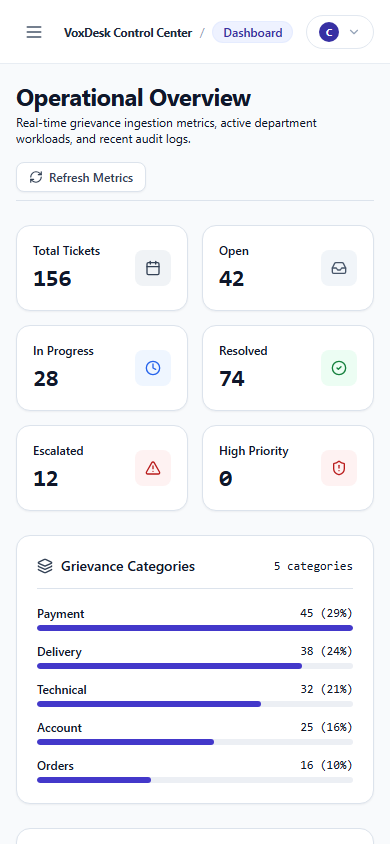
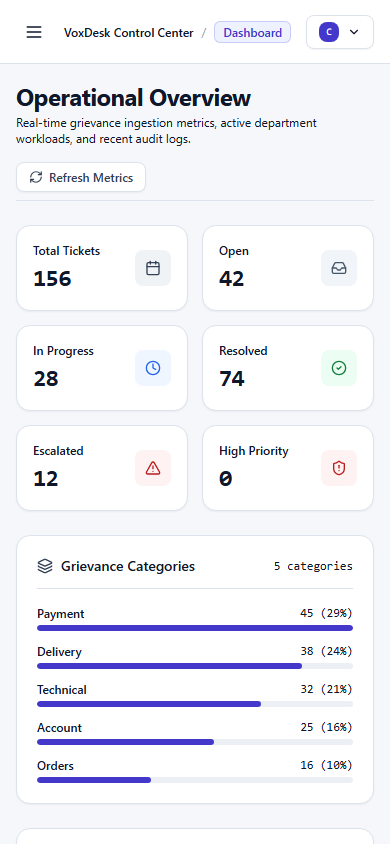
feat(unslop): complete Part 5 (Admin Console Navigation & Shell) with quiet chrome

diff --git a/frontend/src/components/admin/AdminSidebar.jsx b/frontend/src/components/admin/AdminSidebar.jsx
@@ -9,10 +9,8 @@ import {
   ChevronLeft,
   ChevronRight,
   X,
-  Shield,
 } from 'lucide-react';
 import { Link } from 'react-router-dom';
-import VoxDeskLogo from '../VoxDeskLogo';
 
 export default function AdminSidebar({
   activeTab = 'Dashboard',
@@ -43,11 +41,11 @@ export default function AdminSidebar({
       <div className="h-16 px-4 flex items-center justify-between border-b border-[#1F2937] shrink-0 bg-[#111827]">
         <Link
           to="/"
-          className="flex items-center gap-2.5 transition hover:opacity-90 focus-visible:ring-2 focus-visible:ring-brand rounded-lg min-w-0"
-          title="Return to Public Site"
+          className="flex items-center gap-2.5 transition-opacity hover:opacity-90 focus-visible:ring-2 focus-visible:ring-brand rounded-lg min-w-0"
+          title="Return to public site"
         >
           {isCollapsed && !isMobile ? (
-            <div className="w-8 h-8 rounded-lg bg-brand text-white flex items-center justify-center p-1.5 font-bold text-xs shrink-0 shadow-xs">
+            <div className="w-8 h-8 rounded-lg bg-brand text-white flex items-center justify-center font-mono font-medium text-xs shrink-0 shadow-xs">
               VD
             </div>
           ) : (
@@ -70,8 +68,8 @@ export default function AdminSidebar({
                   <line x1="20" y1="10" x2="20" y2="14" />
                 </svg>
               </div>
-              <span className="font-bold tracking-tight text-white leading-none text-base">
-                VoxDesk <span className="text-[#8B6CF0] font-semibold">AI</span>
+              <span className="font-medium tracking-tight text-white leading-none text-base">
+                VoxDesk <span className="text-indigo-400 font-mono text-xs">Console</span>
               </span>
             </div>
           )}
@@ -82,7 +80,7 @@ export default function AdminSidebar({
           <button
             type="button"
             onClick={onCloseMobile}
-            className="p-1.5 text-slate-400 hover:text-white rounded-lg hover:bg-slate-800 transition"
+            className="p-1.5 text-slate-400 hover:text-white rounded-lg hover:bg-slate-800 transition-colors"
             aria-label="Close sidebar drawer"
           >
             <X className="w-5 h-5" />
@@ -94,7 +92,7 @@ export default function AdminSidebar({
           <button
             type="button"
             onClick={onToggleCollapse}
-            className="p-1.5 text-slate-400 hover:text-white rounded-lg hover:bg-slate-800 transition hidden lg:flex"
+            className="p-1.5 text-slate-400 hover:text-white rounded-lg hover:bg-slate-800 transition-colors hidden lg:flex"
             title={isCollapsed ? 'Expand sidebar' : 'Collapse sidebar'}
             aria-label={isCollapsed ? 'Expand sidebar' : 'Collapse sidebar'}
           >
@@ -104,10 +102,10 @@ export default function AdminSidebar({
       </div>
 
       {/* ─────────────────────────────────────────────────────────────────── */}
-      {/* Middle Navigation Items */}
+      {/* Middle Navigation Items (Dense 34px rows on 4px grid) */}
       {/* ─────────────────────────────────────────────────────────────────── */}
       <div className="flex-1 py-4 px-3 space-y-1 overflow-y-auto">
-        <div className="px-2 pb-2 text-[10px] font-bold uppercase tracking-wider text-slate-500">
+        <div className="px-2 pb-2 text-[11px] font-mono text-slate-500">
           {!isCollapsed || isMobile ? 'Operations' : '•••'}
         </div>
 
@@ -124,18 +122,18 @@ export default function AdminSidebar({
                 if (onTabChange) onTabChange(item.id);
                 if (isMobile && onCloseMobile) onCloseMobile();
               }}
-              className={`w-full flex items-center gap-3 px-3 py-2.5 rounded-btn text-xs font-medium transition cursor-pointer relative ${
+              className={`w-full flex items-center gap-3 px-3 py-2 rounded-btn text-xs font-medium transition-colors cursor-pointer relative ${
                 isActive
-                  ? 'bg-[#26344B] text-white font-semibold'
+                  ? 'bg-[#26344B] text-white'
                   : 'text-[#C7D2E0] hover:bg-[#182338] hover:text-white'
               } ${isCollapsed && !isMobile ? 'justify-center px-0' : ''}`}
               title={item.name}
             >
-              {/* Refined violet left active indicator */}
+              {/* Quiet indigo active indicator hairline */}
               {isActive && (
-                <span className="absolute left-0 top-1.5 bottom-1.5 w-1 bg-[#8B6CF0] rounded-r-full" />
+                <span className="absolute left-0 top-1.5 bottom-1.5 w-1 bg-indigo-400 rounded-r-full" />
               )}
-              <Icon className={`w-4 h-4 shrink-0 ${isActive ? 'text-[#8B6CF0]' : 'text-slate-400'}`} />
+              <Icon className={`w-4 h-4 shrink-0 ${isActive ? 'text-indigo-400' : 'text-slate-400'}`} />
               {(!isCollapsed || isMobile) && <span>{item.name}</span>}
             </button>
           );
@@ -146,16 +144,16 @@ export default function AdminSidebar({
       {/* Bottom User Profile & Sign Out Bar */}
       {/* ─────────────────────────────────────────────────────────────────── */}
       <div className="p-3 border-t border-[#1F2937] bg-[#111827] space-y-2 shrink-0">
-        <div className={`flex items-center gap-2.5 p-2 rounded-btn bg-[#182338] ${isCollapsed && !isMobile ? 'justify-center p-1.5' : ''}`}>
-          <div className="w-7 h-7 rounded-full bg-brand text-white flex items-center justify-center font-bold text-xs shrink-0">
+        <div className={`flex items-center gap-2.5 p-2 rounded-btn bg-[#182338] border border-[#2E3C54]/40 ${isCollapsed && !isMobile ? 'justify-center p-1.5' : ''}`}>
+          <div className="w-7 h-7 rounded-btn bg-brand text-white flex items-center justify-center font-mono font-medium text-xs shrink-0">
             {currentUser?.name?.charAt(0) || 'A'}
           </div>
           {(!isCollapsed || isMobile) && (
             <div className="flex-1 min-w-0 text-left">
-              <span className="text-xs font-semibold text-white block truncate leading-tight">
+              <span className="text-xs font-medium text-white block truncate leading-tight">
                 {currentUser?.name || 'Administrator'}
               </span>
-              <span className="text-[10px] text-slate-400 block truncate leading-tight">
+              <span className="text-[10px] font-mono text-slate-400 block truncate leading-tight">
                 {currentUser?.email || 'admin@voxdesk.ai'}
               </span>
             </div>
@@ -165,13 +163,13 @@ export default function AdminSidebar({
         <button
           type="button"
           onClick={onLogout}
-          className={`w-full flex items-center gap-2.5 px-3 py-2 rounded-btn text-xs font-medium text-rose-400 hover:bg-rose-500/10 hover:text-rose-300 transition cursor-pointer ${
+          className={`w-full flex items-center gap-2.5 px-3 py-2 rounded-btn text-xs font-medium text-rose-400 hover:bg-rose-500/10 hover:text-rose-300 transition-colors cursor-pointer ${
             isCollapsed && !isMobile ? 'justify-center px-0' : ''
           }`}
-          title="Sign out of Admin Console"
+          title="Sign out of admin console"
         >
           <LogOut className="w-4 h-4 shrink-0" />
-          {(!isCollapsed || isMobile) && <span>Sign Out</span>}
+          {(!isCollapsed || isMobile) && <span>Sign out</span>}
         </button>
       </div>
     </aside>

diff --git a/frontend/src/components/admin/AdminTopbar.jsx b/frontend/src/components/admin/AdminTopbar.jsx
@@ -37,47 +37,47 @@ export default function AdminTopbar({
   }, [profileDropdownOpen]);
 
   return (
-    <header className="h-16 bg-white border-b border-slate-200/80 px-4 sm:px-8 flex items-center justify-between sticky top-0 z-20 shrink-0 select-none">
+    <header className="h-16 bg-surface border-b border-border px-4 sm:px-8 flex items-center justify-between sticky top-0 z-20 shrink-0 select-none">
       {/* Left Area: Mobile Menu Trigger & Breadcrumbs */}
       <div className="flex items-center gap-3">
         <button
           type="button"
           onClick={onOpenMobileSidebar}
-          className="md:hidden p-2 text-slate-600 hover:text-slate-900 rounded-lg hover:bg-slate-100 transition cursor-pointer"
+          className="md:hidden p-2 text-secondary-text hover:text-primary-text rounded-btn hover:bg-surface-subtle transition-colors cursor-pointer"
           aria-label="Open sidebar navigation"
         >
           <Menu className="w-5 h-5" />
         </button>
 
         <div className="flex items-center gap-2 text-xs">
-          <span className="font-bold text-slate-800 tracking-tight">
+          <span className="font-medium text-primary-text">
             VoxDesk Control Center
           </span>
           <span className="text-slate-400" aria-hidden="true">/</span>
-          <span className="font-semibold text-primary-700 bg-primary-50 px-2.5 py-0.5 rounded-full border border-primary-100/60">
+          <span className="font-medium text-brand bg-brand-subtle px-2 py-0.5 rounded-tag border border-brand/20">
             {activeTab}
           </span>
         </div>
       </div>
 
-      {/* Right Area: Admin Profile Dropdown Pill */}
+      {/* Right Area: Admin Profile Button */}
       <div className="relative" ref={dropdownRef}>
         <button
           type="button"
           onClick={() => setProfileDropdownOpen((prev) => !prev)}
           aria-expanded={profileDropdownOpen}
           aria-haspopup="menu"
-          className="flex items-center gap-2 px-3 py-1.5 rounded-full border border-slate-200 bg-white text-xs font-semibold text-slate-700 shadow-2xs hover:bg-slate-50 hover:border-slate-300 transition cursor-pointer"
+          className="flex items-center gap-2 px-3 py-1.5 rounded-btn border border-border bg-surface text-xs font-medium text-secondary-text shadow-xs hover:bg-surface-subtle hover:text-primary-text transition-colors cursor-pointer"
         >
-          <div className="w-5 h-5 rounded-full bg-primary-700 text-white flex items-center justify-center text-[10px] font-bold">
+          <div className="w-5 h-5 rounded-btn bg-brand text-white flex items-center justify-center text-[10px] font-mono font-medium">
             {currentUser?.name ? currentUser.name.charAt(0).toUpperCase() : 'A'}
           </div>
           <span className="hidden sm:inline truncate max-w-[140px]">
             {currentUser?.name || currentUser?.email || 'Admin'}
           </span>
           <ChevronDown
-            className={`w-3.5 h-3.5 text-slate-400 transition-transform duration-200 ${
-              profileDropdownOpen ? 'rotate-180 text-primary-600' : ''
+            className={`w-3.5 h-3.5 text-secondary-text transition-transform duration-150 ${
+              profileDropdownOpen ? 'rotate-180 text-brand' : ''
             }`}
           />
         </button>
@@ -86,16 +86,16 @@ export default function AdminTopbar({
         {profileDropdownOpen && (
           <div
             role="menu"
-            className="absolute right-0 mt-2 w-52 bg-white border border-slate-200 rounded-2xl shadow-lg p-2 z-30 space-y-1 animate-in fade-in zoom-in-95 duration-100"
+            className="absolute right-0 mt-2 w-52 bg-surface border border-border rounded-card shadow-md p-1.5 z-30 space-y-1"
           >
-            <div className="px-3 py-2 border-b border-slate-100 text-xs">
-              <div className="font-bold text-slate-800 truncate">
+            <div className="px-3 py-2 border-b border-border text-xs">
+              <div className="font-medium text-primary-text truncate">
                 {currentUser?.name || 'Administrator'}
               </div>
-              <div className="text-[10px] text-slate-400 truncate">
+              <div className="text-[10px] font-mono text-muted-text truncate">
                 {currentUser?.email || 'admin@voxdesk.ai'}
               </div>
-              <div className="text-[9px] font-bold uppercase tracking-wider text-primary-600 mt-1">
+              <div className="text-[10px] font-mono text-brand mt-1">
                 Role: {currentUser?.role || 'Admin'}
               </div>
             </div>
@@ -104,10 +104,10 @@ export default function AdminTopbar({
               to="/"
               role="menuitem"
               onClick={() => setProfileDropdownOpen(false)}
-              className="w-full flex items-center gap-2 px-3 py-2 text-xs text-slate-600 hover:text-slate-900 hover:bg-slate-50 rounded-xl transition"
+              className="w-full flex items-center gap-2 px-3 py-2 text-xs text-secondary-text hover:text-primary-text hover:bg-surface-subtle rounded-btn transition-colors"
             >
               <ArrowLeft className="w-3.5 h-3.5" />
-              <span>Exit to Public Home</span>
+              <span>Exit to public home</span>
             </Link>
 
             <button
@@ -117,10 +117,10 @@ export default function AdminTopbar({
                 setProfileDropdownOpen(false);
                 if (onLogout) onLogout();
               }}
-              className="w-full flex items-center gap-2 px-3 py-2 text-xs text-rose-600 hover:bg-rose-50 rounded-xl font-semibold transition cursor-pointer"
+              className="w-full flex items-center gap-2 px-3 py-2 text-xs text-rose-600 hover:bg-rose-50 rounded-btn font-medium transition-colors cursor-pointer"
             >
               <LogOut className="w-3.5 h-3.5" />
-              <span>Sign Out</span>
+              <span>Sign out</span>
             </button>
           </div>
         )}
@@ -128,4 +128,3 @@ export default function AdminTopbar({
     </header>
   );
 }
-

diff --git a/frontend/src/components/admin/AdminLayout.jsx b/frontend/src/components/admin/AdminLayout.jsx
@@ -52,7 +52,7 @@ export default function AdminLayout({
   }, [mobileOpen]);
 
   return (
-    <div className="fixed inset-0 flex bg-slate-50 font-sans overflow-hidden select-none">
+    <div className="fixed inset-0 flex bg-app font-sans overflow-hidden select-none">
       {/* ─────────────────────────────────────────────────────────────────── */}
       {/* 1. Permanent Desktop Sidebar (Full Viewport Height 100dvh) */}
       {/* ─────────────────────────────────────────────────────────────────── */}
@@ -109,7 +109,7 @@ export default function AdminLayout({
       {/* ─────────────────────────────────────────────────────────────────── */}
       {/* 3. Right Area: Sticky Topbar + Independently Scrollable Main Content */}
       {/* ─────────────────────────────────────────────────────────────────── */}
-      <div className="flex-1 flex flex-col h-full min-w-0 overflow-hidden bg-slate-50">
+      <div className="flex-1 flex flex-col h-full min-w-0 overflow-hidden bg-app">
         <AdminTopbar
           activeTab={activeTab}
           currentUser={currentUser}
@@ -124,4 +124,3 @@ export default function AdminLayout({
     </div>
   );
 }
-

diff --git a/frontend/src/components/admin/AdminMainContent.jsx b/frontend/src/components/admin/AdminMainContent.jsx
@@ -3,7 +3,7 @@ import React from 'react';
 export default function AdminMainContent({ children }) {
   return (
     <main
-      className="flex-1 overflow-y-auto overflow-x-hidden min-w-0 p-4 sm:p-8 bg-slate-50 focus:outline-none"
+      className="flex-1 overflow-y-auto overflow-x-hidden min-w-0 p-4 sm:p-8 bg-app focus:outline-none"
       id="admin-main-content"
       tabIndex={-1}
     >
@@ -13,4 +13,3 @@ export default function AdminMainContent({ children }) {
     </main>
   );
 }
-
